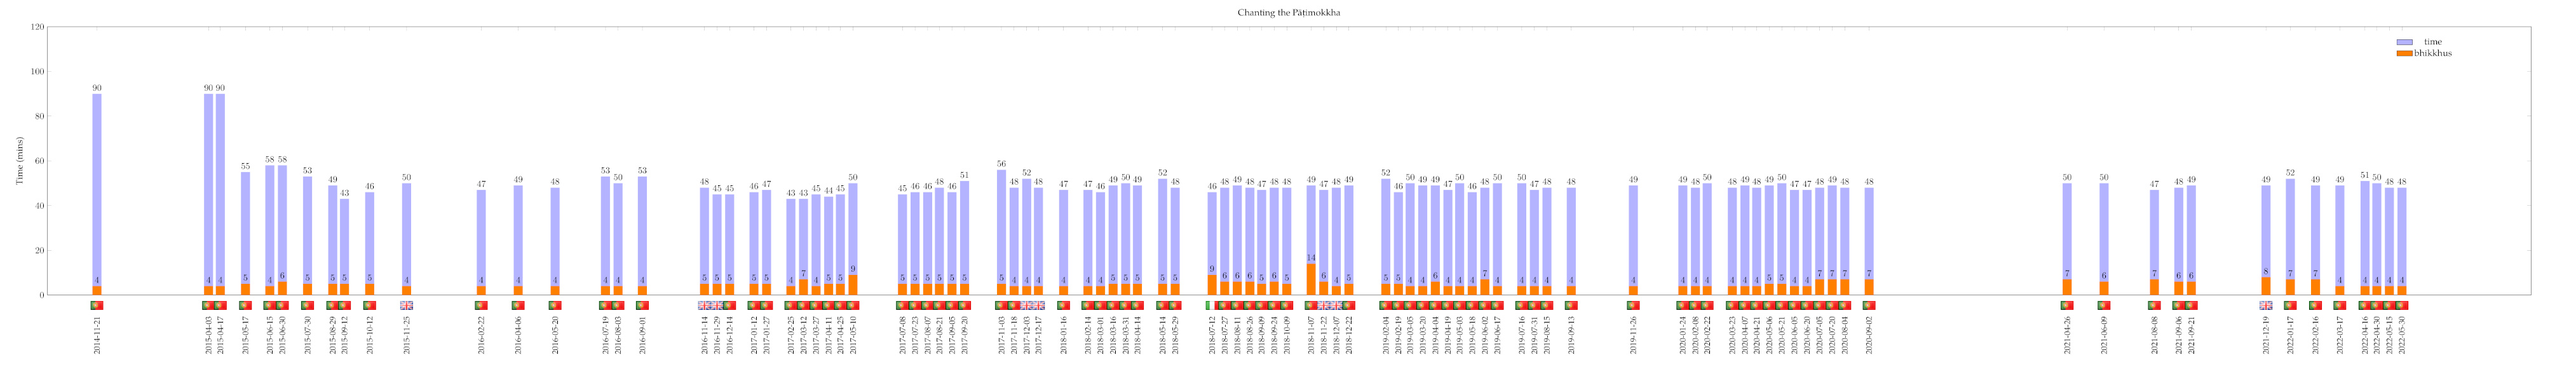
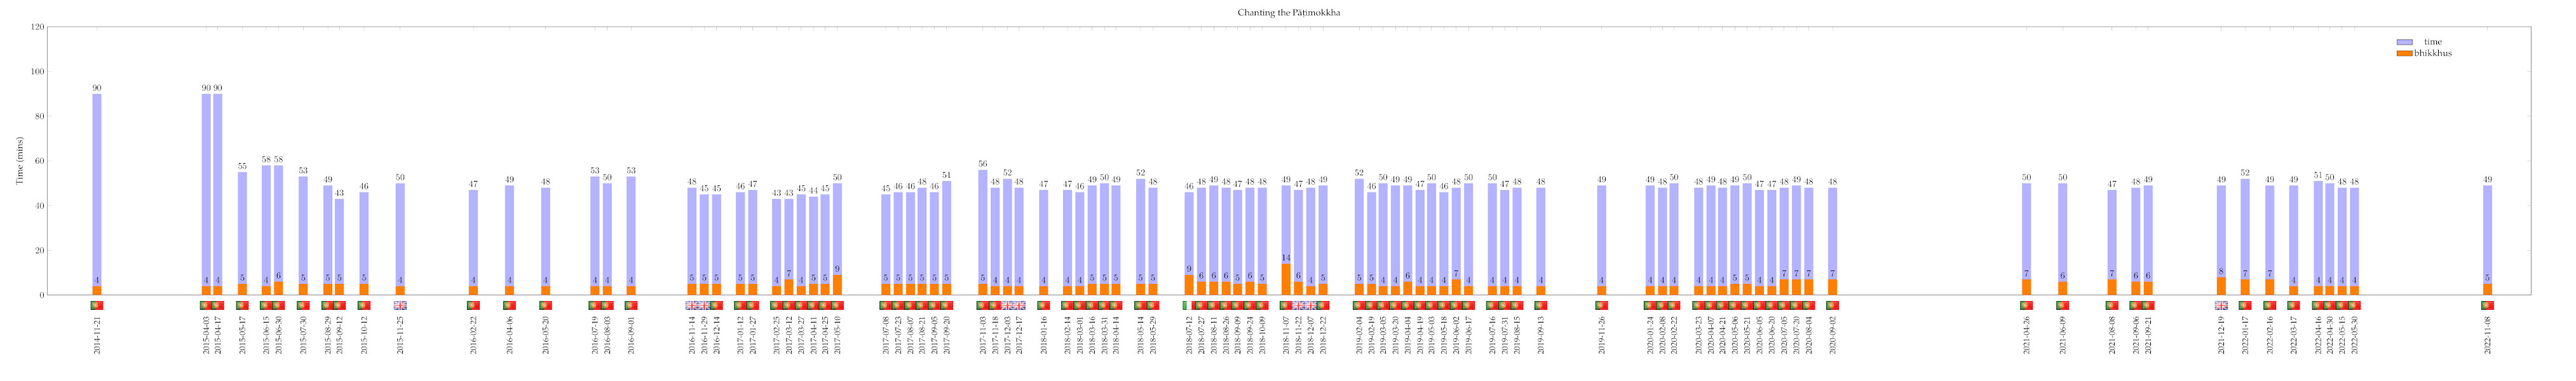
upd

diff --git a/src/patimokkha-chanting-chart.tex b/src/patimokkha-chanting-chart.tex
@@ -58,7 +58,7 @@
     ylabel=Time (mins),
     xtick=data,
     xmin=2014-11-20,
-    xmax=2022-10-31,
+    xmax=2022-12-31,
     enlarge x limits={rel=0.02,lower},
     xticklabel style={yshift=-20pt,rotate=90,anchor=east,font=\small},
     xticklabel={\year-\month-\day},
@@ -186,6 +186,7 @@
   \node [anchor=south, yshift=-20pt] at (axis cs:2022-04-30,0) {\includegraphics[width=5mm]{pt}};
   \node [anchor=south, yshift=-20pt] at (axis cs:2022-05-15,0) {\includegraphics[width=5mm]{pt}};
   \node [anchor=south, yshift=-20pt] at (axis cs:2022-05-30,0) {\includegraphics[width=5mm]{pt}};
+  \node [anchor=south, yshift=-20pt] at (axis cs:2022-11-08,0) {\includegraphics[width=5mm]{pt}};
 
 \end{axis}
 \end{tikzpicture}
